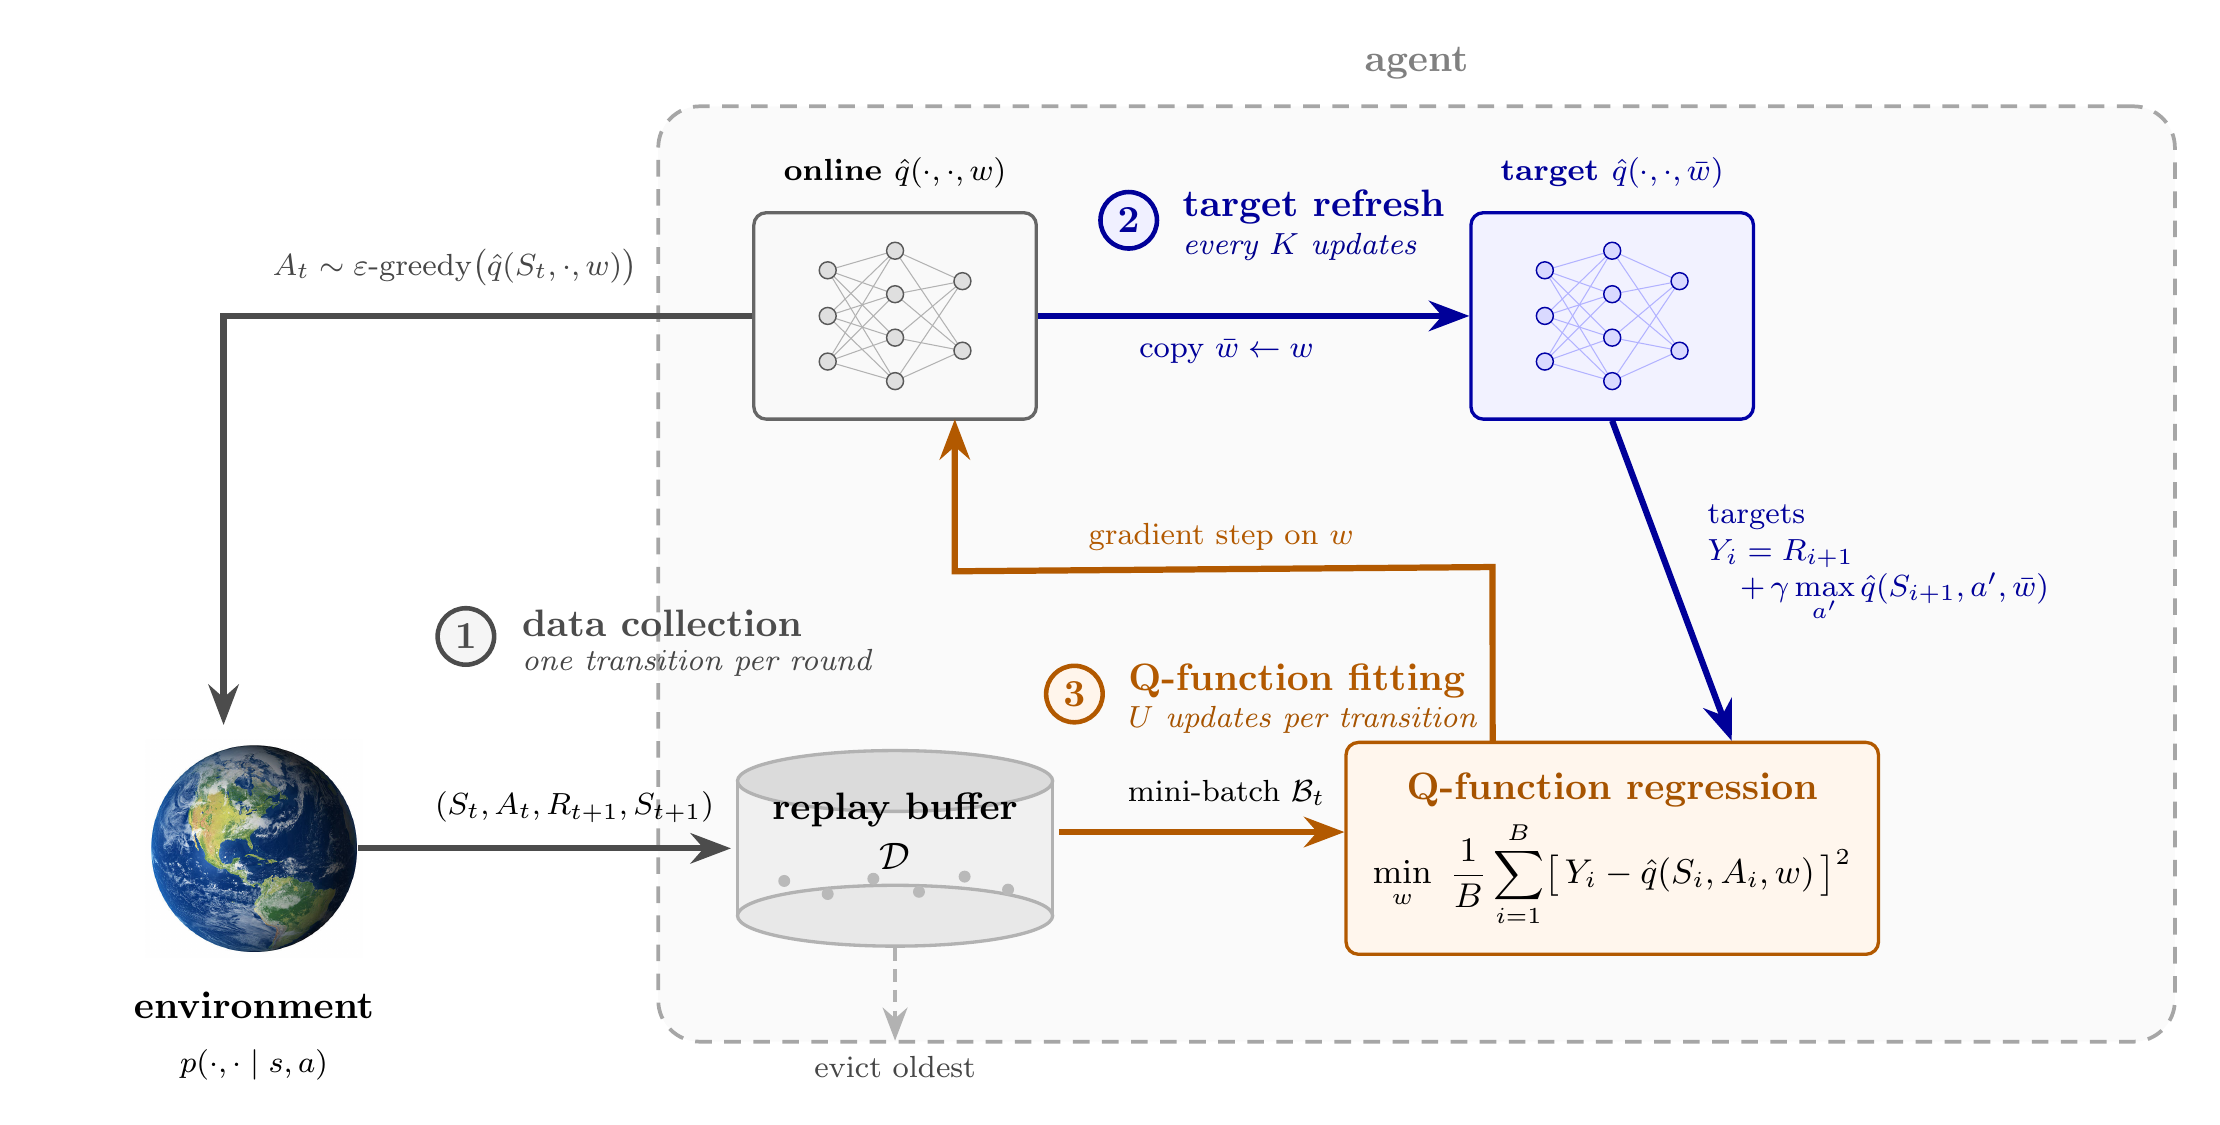
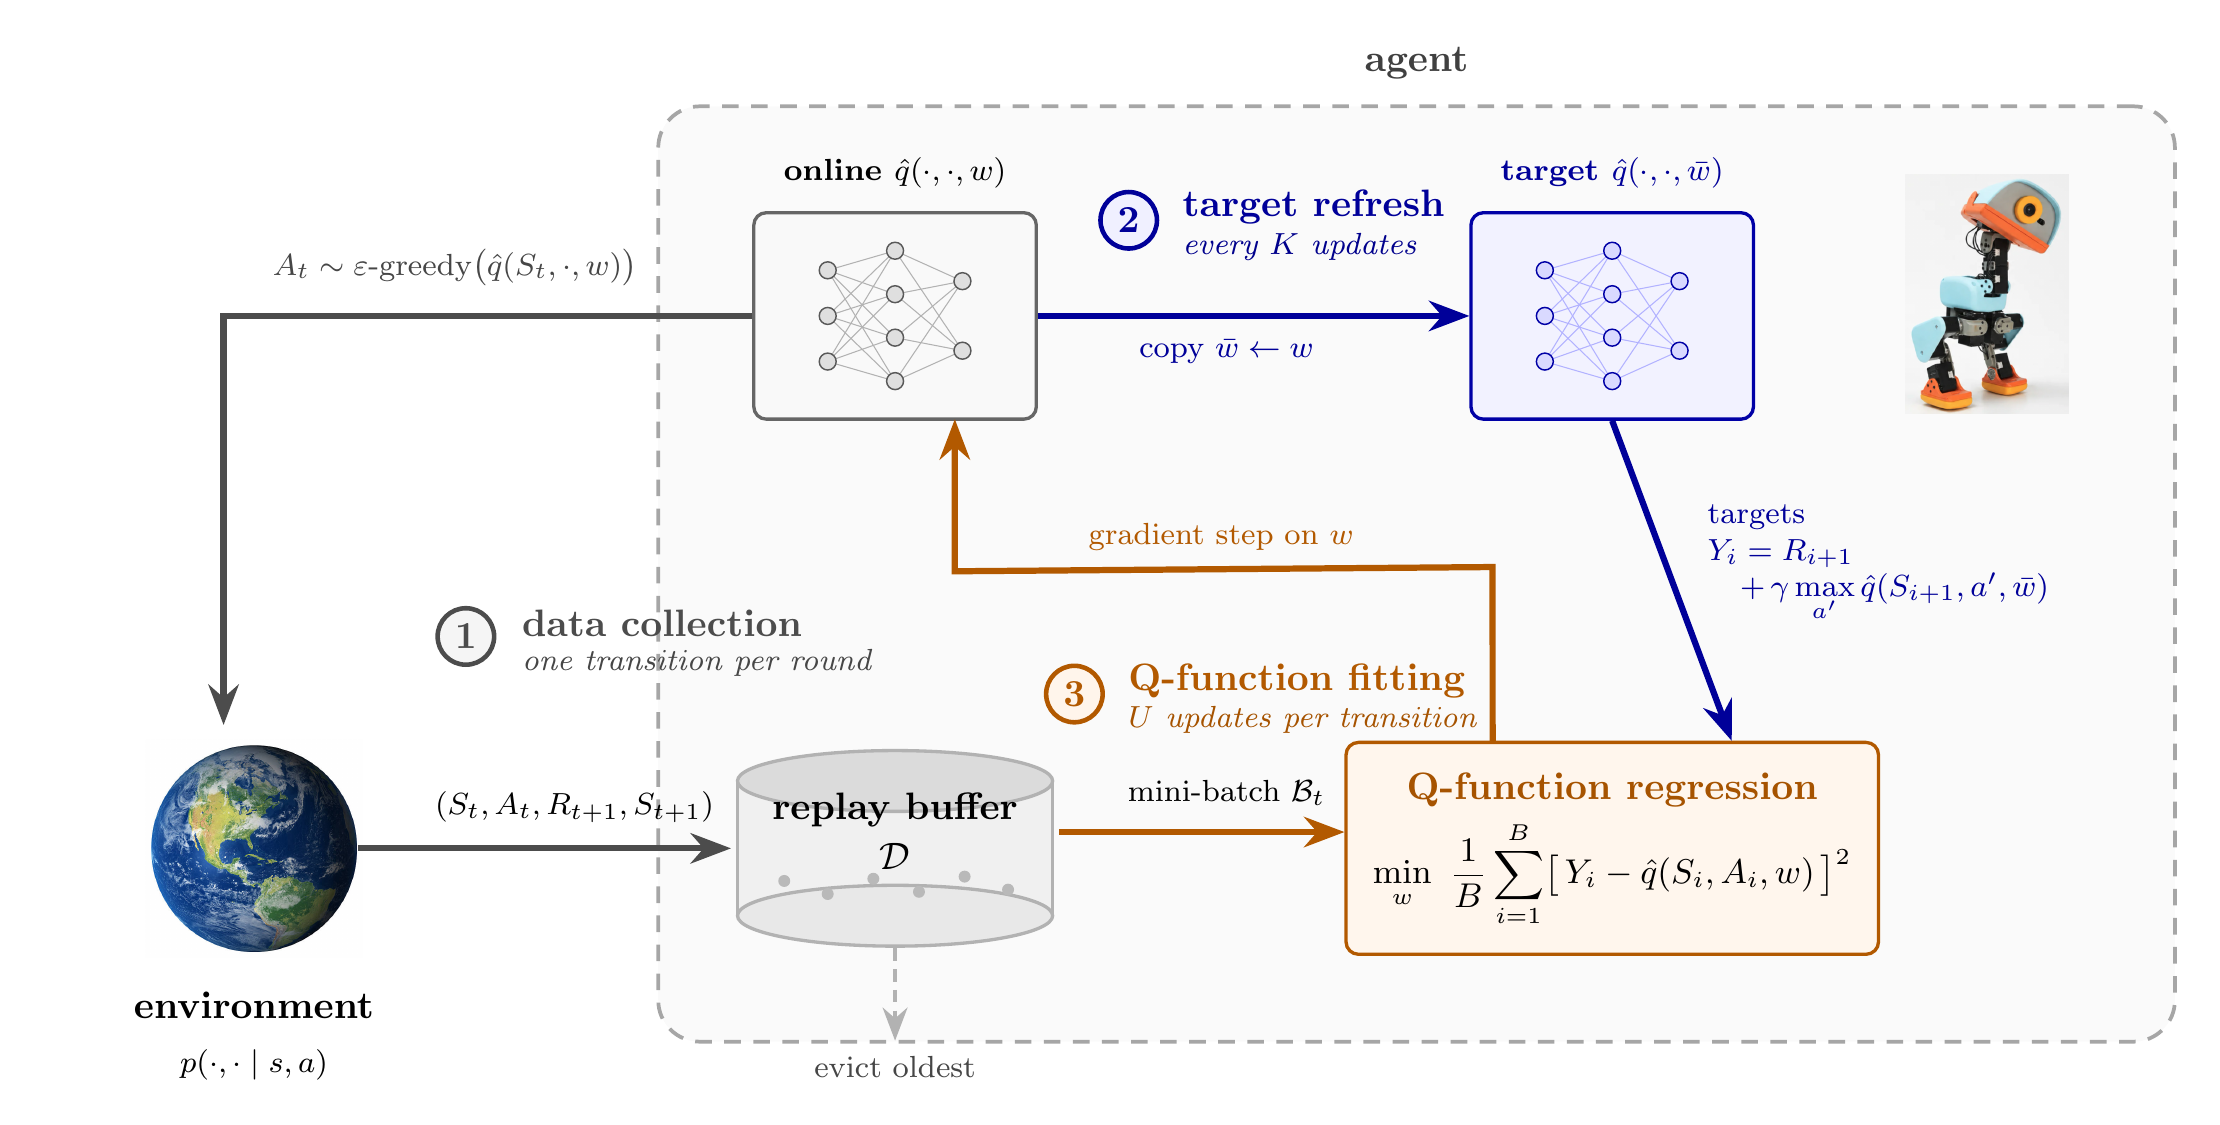
Improve README

Changed region(s): [[0.8392, 0.1556, 0.9324, 0.3733], [0.6216, 0.0311, 0.6527, 0.0622]]

diff --git a/README.md b/README.md
@@ -75,7 +75,7 @@ separates generalized Q-learning into three independently scheduled processes:
 data collection, target-network refresh, and Q-function fitting. This is the
 architecture currently being translated into the replay and Q-learning code.
 
-[![Generalized Q-learning as data collection, target refresh, and Q-function fitting](assets/generalized-q-learning.png)](mathematical_derivations/21_Deep-Q-Network.pdf)
+[![An agent performing generalized Q-learning through data collection, target-network refresh, and Q-function fitting](assets/generalized-q-learning.png)](mathematical_derivations/21_Deep-Q-Network.pdf)
 
 Across the implemented algorithms:
 
